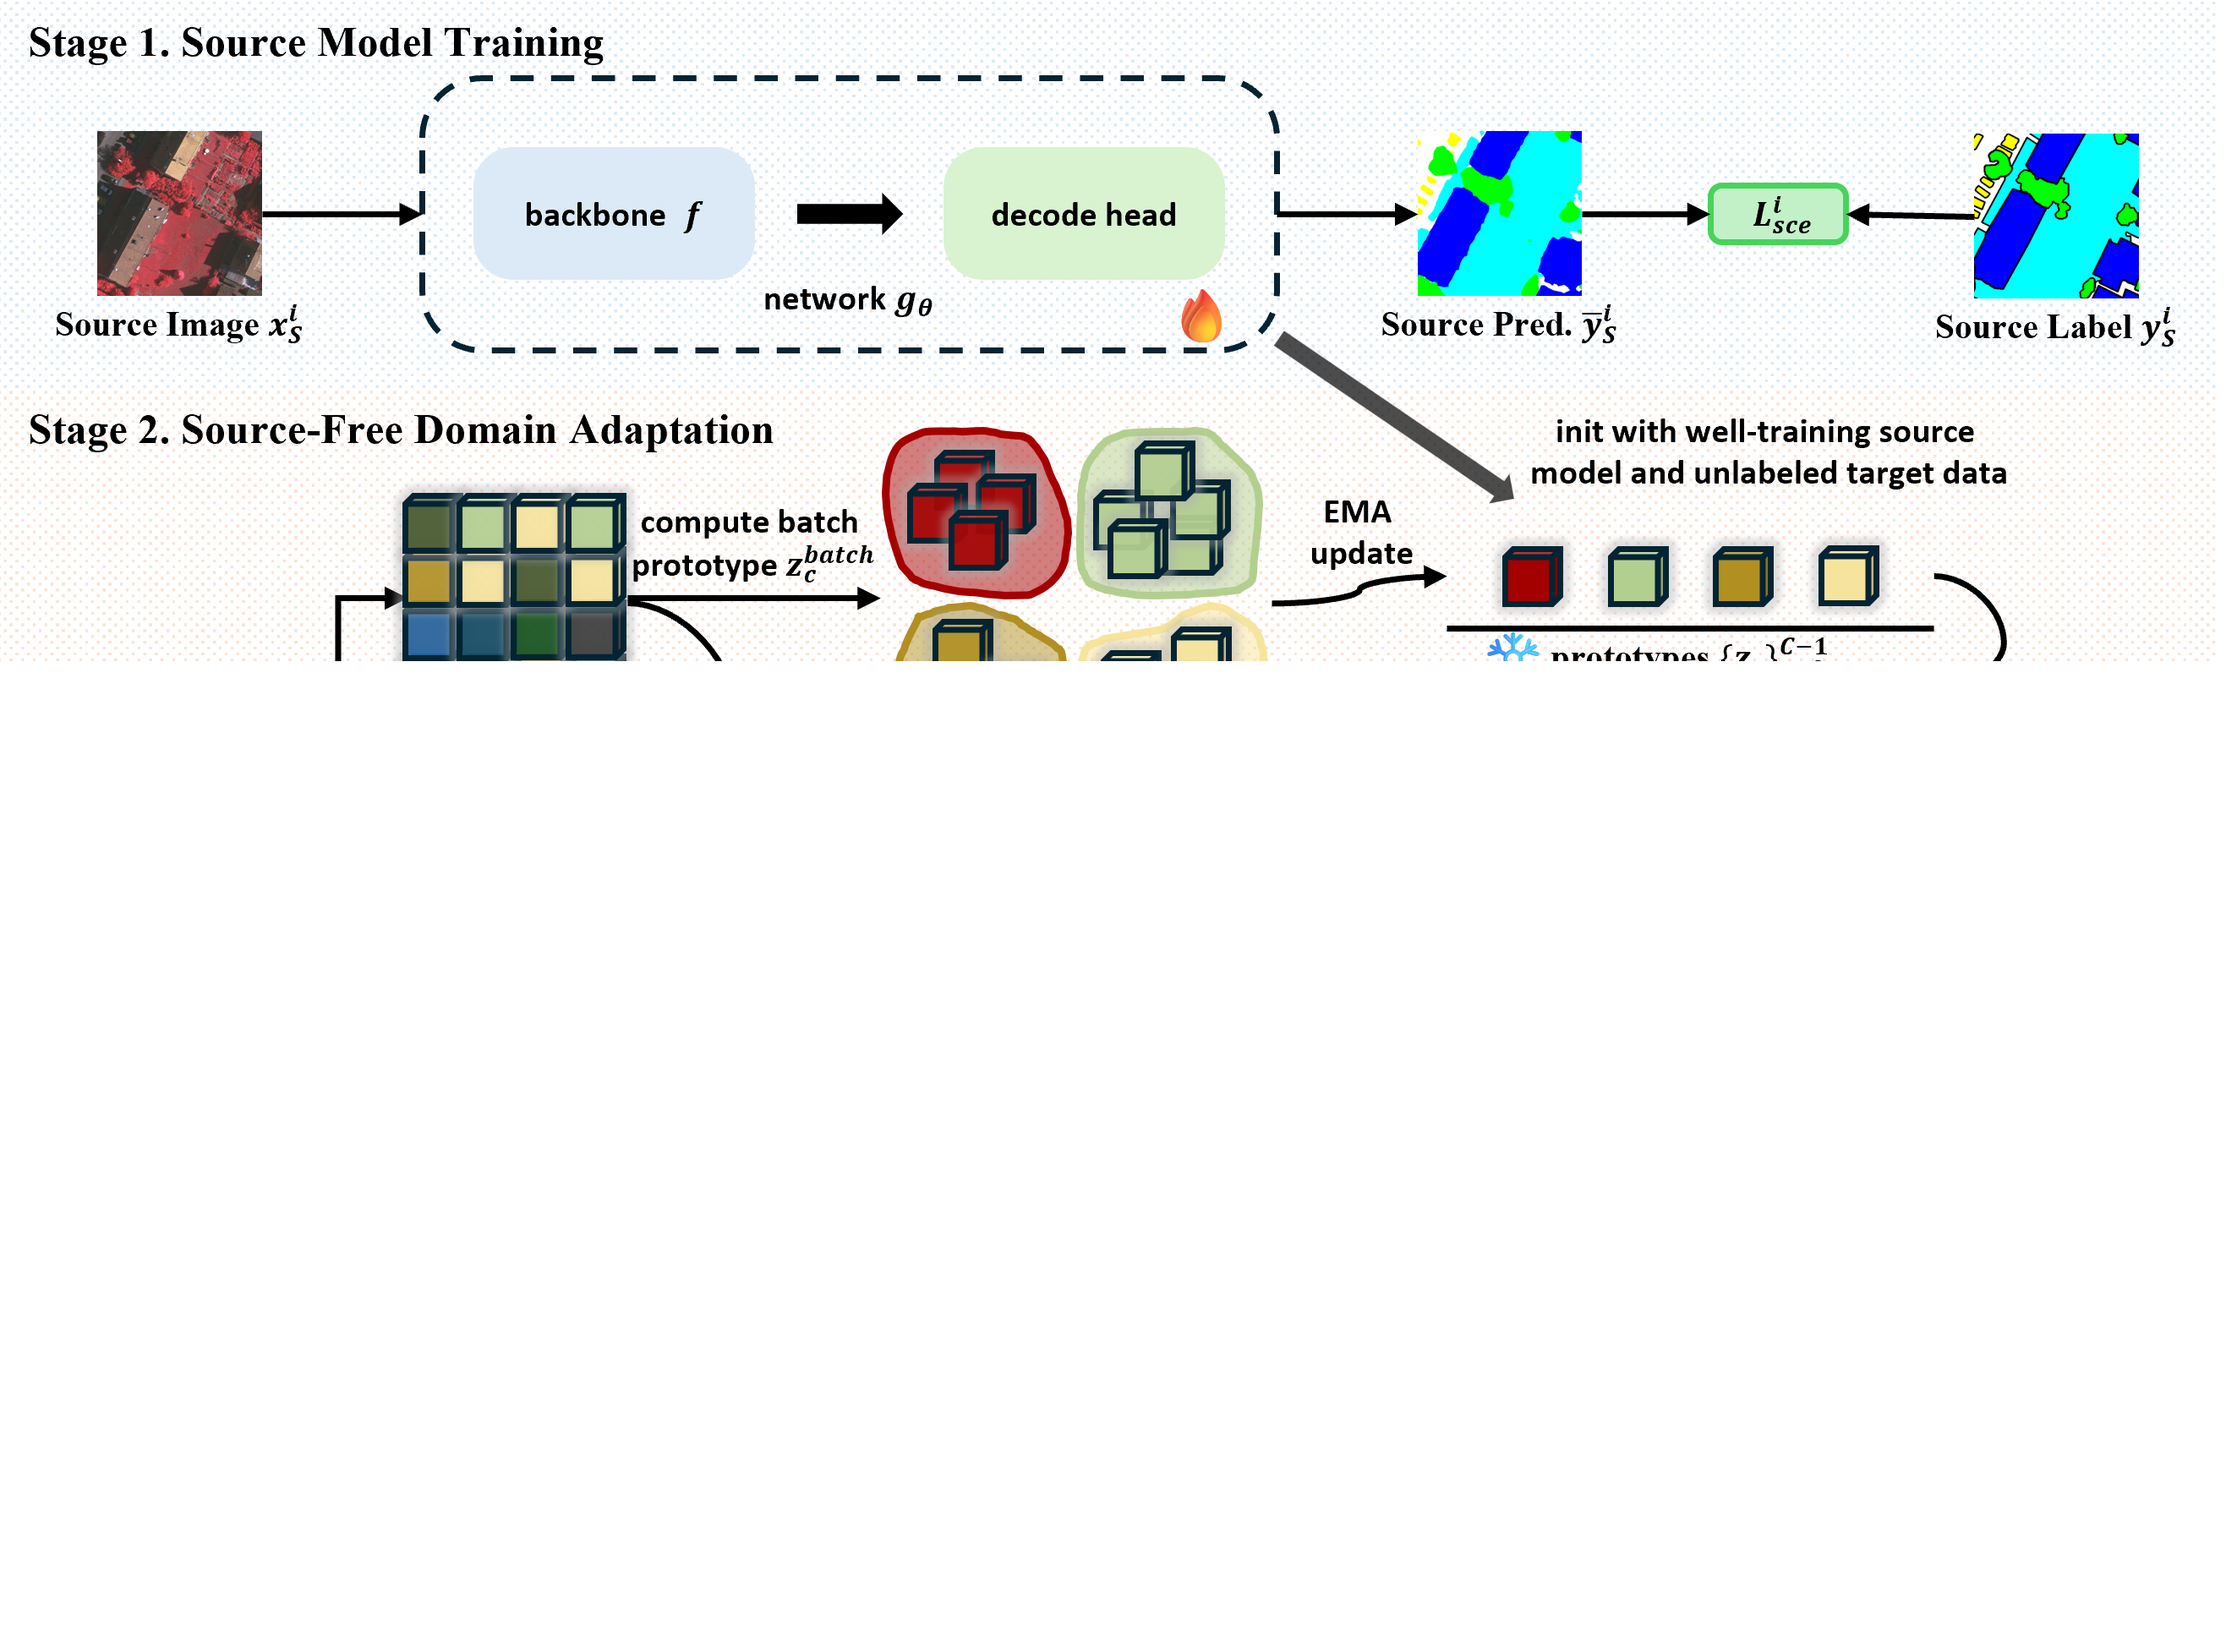
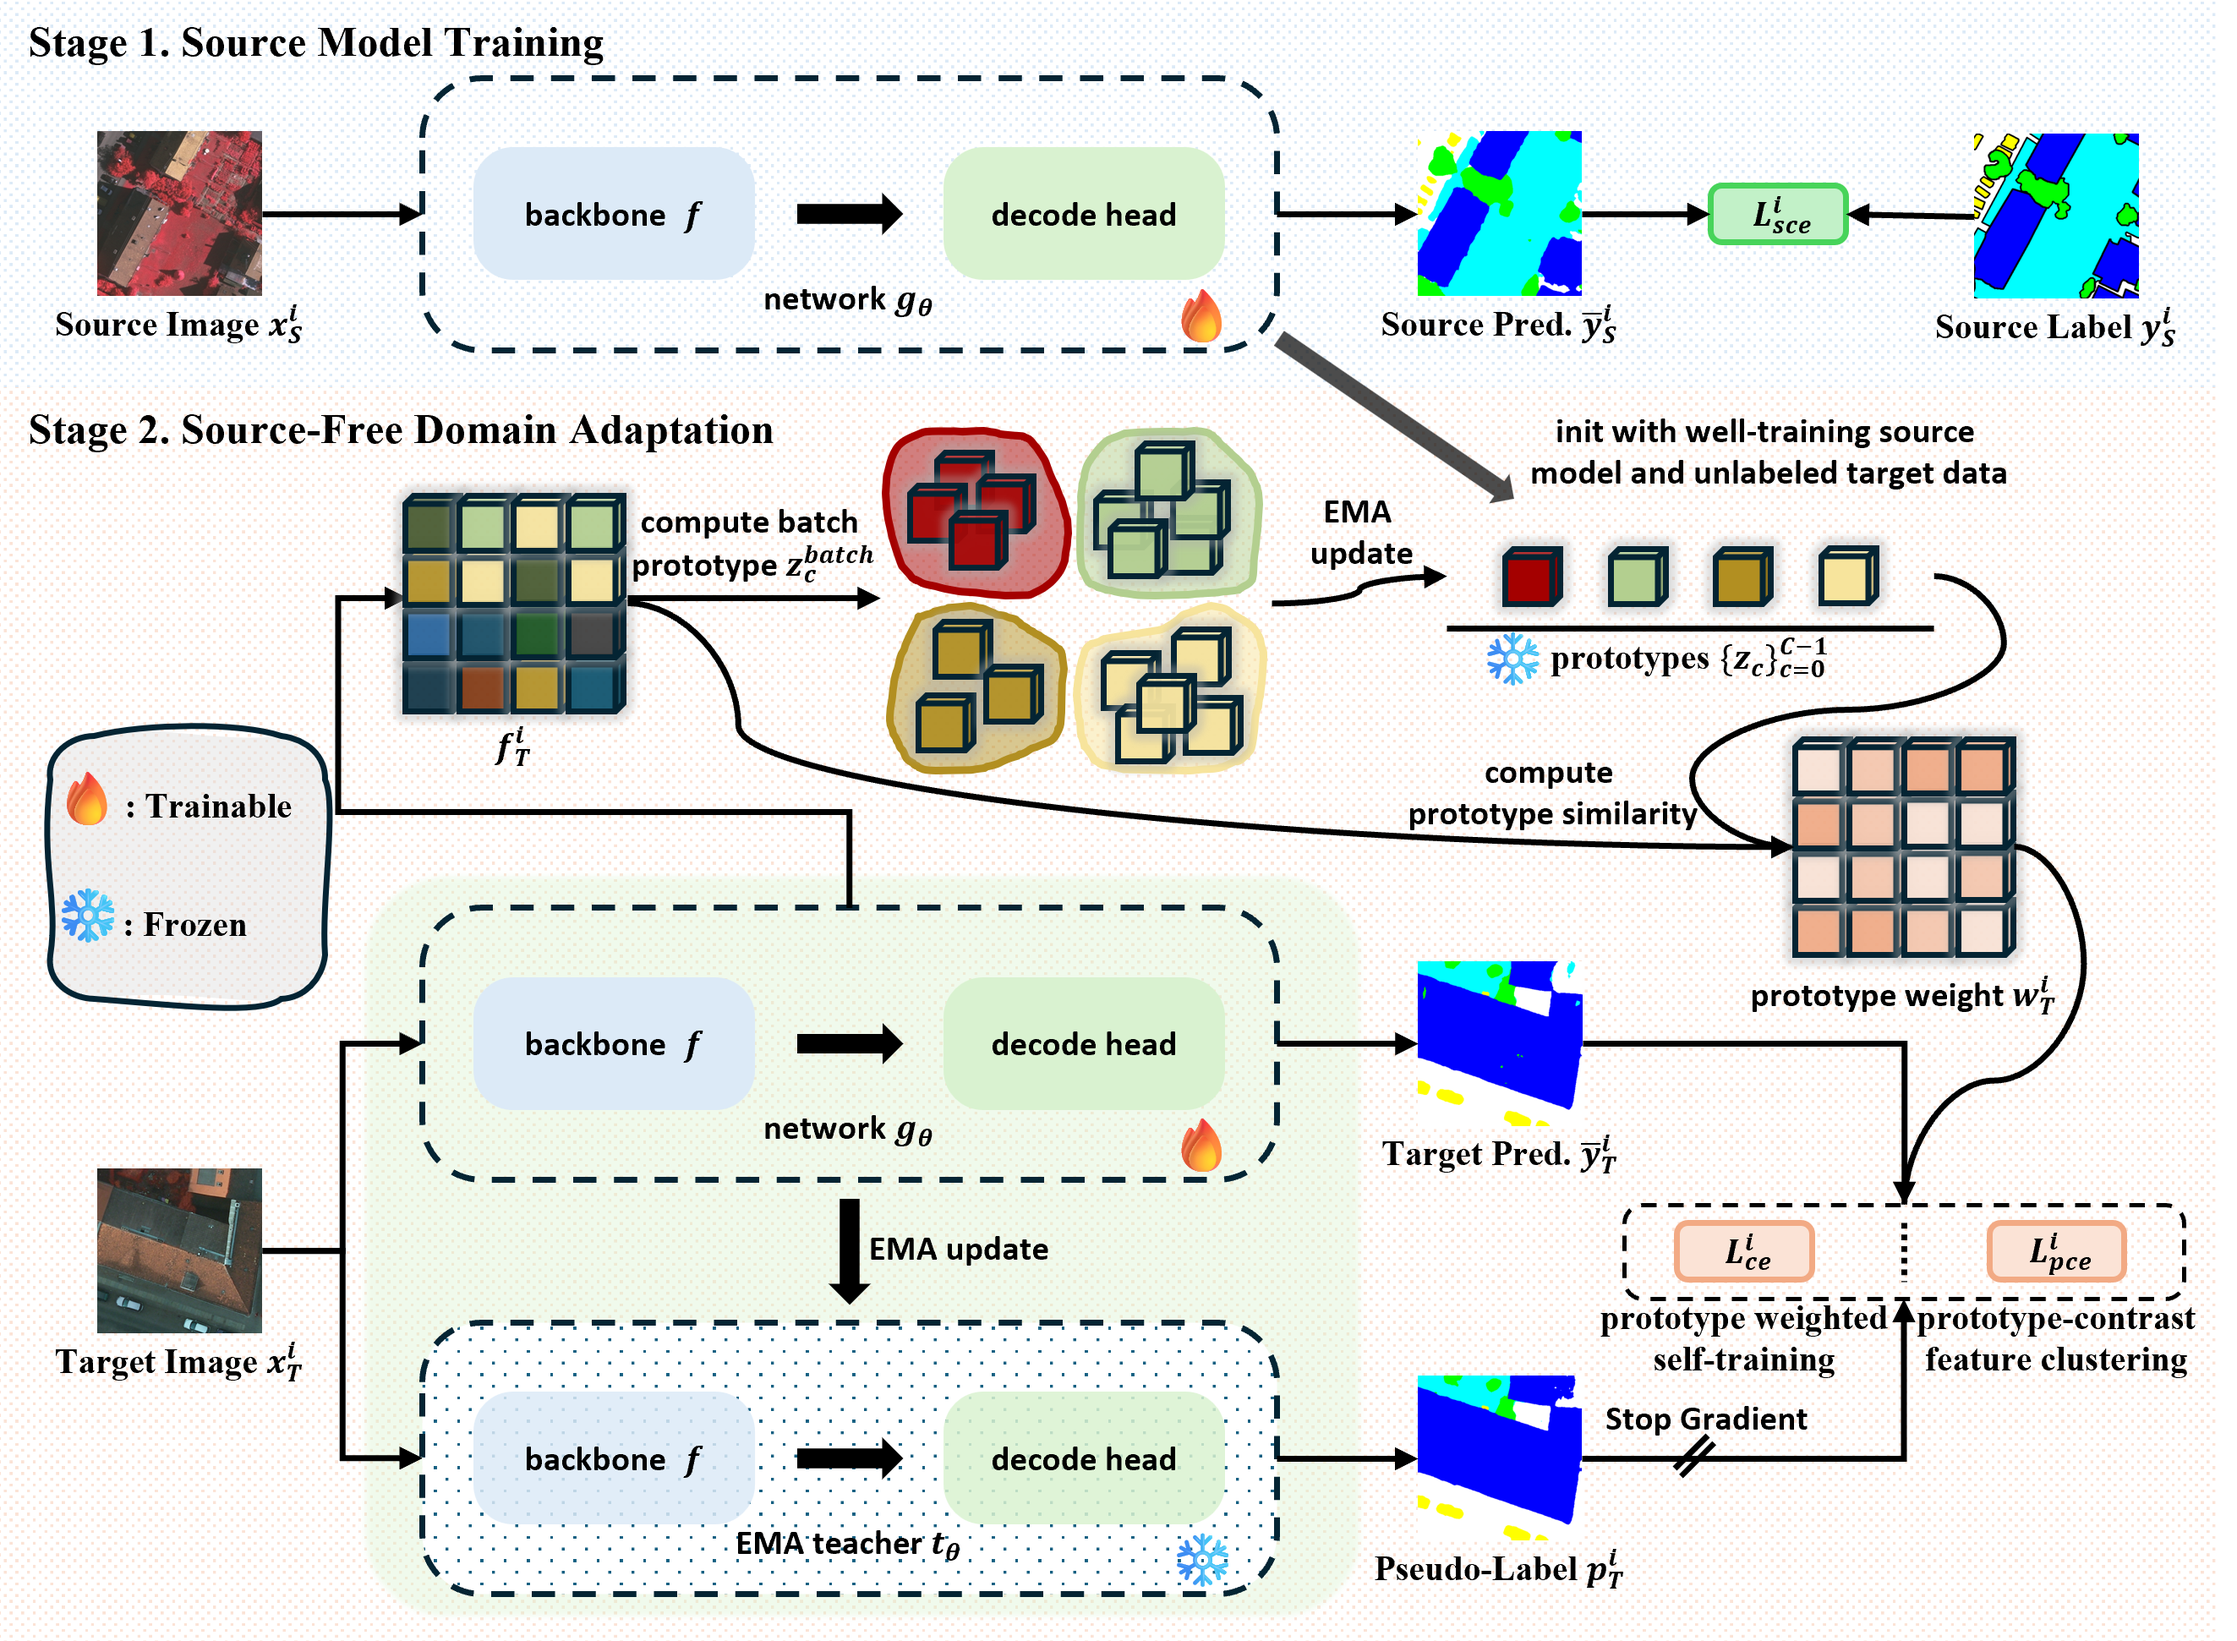
update pages

Changed region(s): [[0.0, 0.4019, 0.9917, 1.0]]

diff --git a/_pages/about.md b/_pages/about.md
@@ -56,7 +56,7 @@ I'm driven by the impact of technology, especially in the fields of
 <div class='paper-box'><div class='paper-box-image'>
     <div>
         <div class="badge">TGRS 2026</div>
-        <img src='images/bridge-img.png' alt="Bridge" width="100%">
+        <img src='https://github.com/woldier/pro-sfda/blob/main/figs/overview.png' alt="Bridge" width="100%">
     </div>
 </div>
 <div class='paper-box-text' markdown="1">
@@ -80,7 +80,7 @@ Bridge: Leveraging vision foundation models for efficient cross-domain remote se
 <div class='paper-box'><div class='paper-box-image'>
     <div>
         <div class="badge">TGRS 2026</div>
-        <img src='images/entseg-img.png' alt="EntSeg" width="100%">
+        <img src='images/entseg-img.png' alt="EntSeg" width="80%">
     </div>
 </div>
 <div class='paper-box-text' markdown="1">
@@ -100,7 +100,7 @@ for Cross-Domain Remote Sensing Segmentation
 <div class='paper-box'><div class='paper-box-image'>
     <div>
         <div class="badge">ICASSP 2026</div>
-        <img src='images/prosfda-img.png' alt="ProSFDA" width="100%">
+        <img src='images/prosfda-img.png' alt="ProSFDA" width="80%">
     </div>
 </div>
 <div class='paper-box-text' markdown="1">
